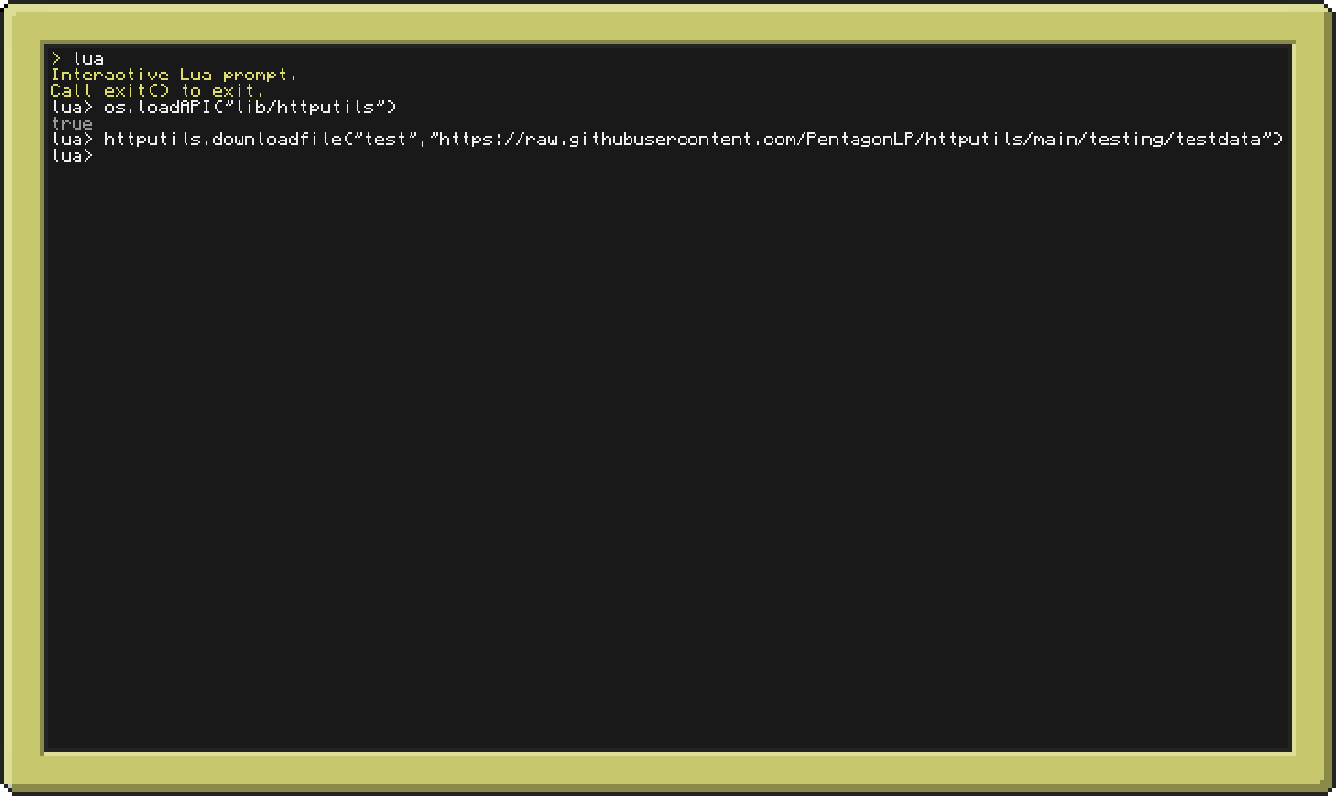
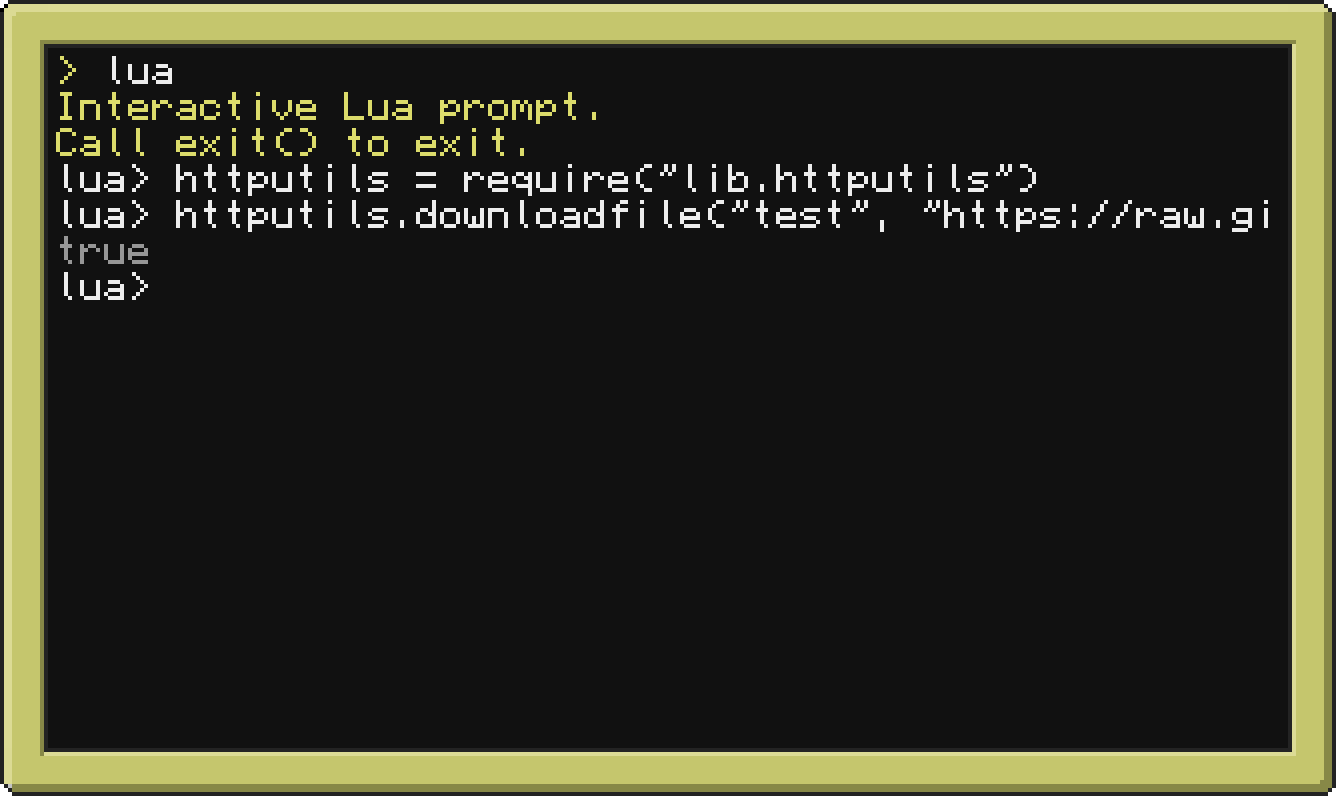
Rework Readme for new version, correct filepath in packageinfo

Changed region(s): [[0.0307, 0.0603, 0.7979, 0.392], [0.5831, 0.1508, 0.9513, 0.1809], [0.8286, 0.2412, 0.9513, 0.3015]]

diff --git a/README.md b/README.md
@@ -1,6 +1,6 @@
-# HTTPUtils
-![projectstage](https://img.shields.io/badge/project%20stage-alpha-yellow)
-![projectstage](https://img.shields.io/badge/version-1.0-yellow)
+# HttpUtils
+![projectstage](https://img.shields.io/badge/project%20stage-release-green)
+![projectstage](https://img.shields.io/badge/version-1.1-green)
 [![license](https://img.shields.io/github/license/computercraft-package-tool/httputils)](https://github.com/computercraft-package-tool/httputils/blob/main/LICENSE)
 [![issues](https://img.shields.io/github/issues/computercraft-package-tool/httputils)](https://github.com/computercraft-package-tool/httputils/issues)<br>
 [![contributors](https://img.shields.io/github/contributors/computercraft-package-tool/httputils)](https://github.com/computercraft-package-tool/httputils/graphs/contributors)
@@ -13,7 +13,7 @@
 Library for the Minecraft mod **ComputerCraft/CC: Tweaked** including some additional HTTP Methodes  
 
 ## How to install 
-HTTPUtils can be installed using the [ComputerCraft Package Tool](https://github.com/computercraft-package-tool/ccpt) by using the following commands:
+HttpUtils can be installed using the [ComputerCraft Package Tool](https://github.com/computercraft-package-tool/ccpt) by using the following commands:
 
 Install CCPT, only run if you havn't installed it yet:
 ```
@@ -23,10 +23,25 @@ Install the library:
 ```
 ccpt install httputils
 ```
-The library will now be stored in "/lib/httputils". It depends on "fileutils", which will be installed automaticly with HTTPUtils.
+The library will now be stored in "/lib/httputils.lua". It depends on the library [FileUtils](https://github.com/computercraft-package-tool/fileutils), which will be installed automatically with HttpUtils.
 
 ## How to use
+### 1. **Include in your project**
 
+The HttpUtils library can be included in your project by using the older ```dofile(...)```-method, or the newer ```require(...)```-method (availible only in [CC: Tweaked](https://tweaked.cc/)):
+
+```lua
+-- Using dofile(...)
+local httputils = dofile("/lib/httputils.lua")
+-- Using require(...)
+local httputils = require("lib.httputils")
+```
+
+In both instances, the methods of the library can be accessed as members of the return value of the method, e.g. ```httputils.gethttpdata(...)```.
+
+**Using *os.loadAPI("lib/httputils")* in order to include the library won't work anymore!** See also [deprecation notice](https://tweaked.cc/module/os.html#v:loadAPI) of the method.
+
+### **2. Get table from URL**
 https://github.com/computercraft-package-tool/httputils/blob/main/testing/testdata will be used in all examples:  
 ```lua
 {
@@ -34,23 +49,30 @@ https://github.com/computercraft-package-tool/httputils/blob/main/testing/testda
 }
 ```
 
-### **1. Get table from URL**  
 The function **gethttpdata([url])** returns the parsed table fetched from the given URL. If an error occures, the errormessage is printed in console and false is returned.
 
 *Example:*  
-
-Example code and output:
+Code:
+```lua
+httputils = require("lib.httputils")
+httputils.gethttpdata("https://raw.githubusercontent.com/computercraft-package-tool/httputils/refs/heads/main/testing/testdata")
+```
+Output:
 <br><img
     alt="missing image :("
     src="https://raw.githubusercontent.com/computercraft-package-tool/httputils/main/img/getdata.png"
 /><br>  
 
-### **2. Download file from URL**  
+### **3. Download file from URL**  
 The function **downloadfile([filepath],[url])** downloads a file from the given URL and stores it in the given filepath. If an error occures, the errormessage is printed in console and false is returned.
 
 *Example:*  
-
-Example code and output:
+Code:
+```lua
+httputils = require("lib.httputils")
+httputils.downloadfile("test", "https://raw.githubusercontent.com/computercraft-package-tool/httputils/refs/heads/main/testing/testdata")
+```
+Output:
 <br><img
     alt="missing image :("
     src="https://raw.githubusercontent.com/computercraft-package-tool/httputils/main/img/downloadfile.png"
@@ -63,23 +85,29 @@ Content of *"test"*:
 }
 ```
 
-### **3. Get Http result from URL**  
-The function **gethttpresult([url])** returns the raw result fetched from the given URL. If an error occures, the errormessage is printed in console and false is returned. This is only a helper methode; It only differs from http.get([url]) because it does some additional error checking.
+### **4. Get HTTP result from URL**  
+The function **gethttpresult([url])** returns the raw result fetched from the given URL. If an error occures, the errormessage is printed in console and false is returned. It only differs from http.get([url]) because it does some additional error checking.
 
 *Example:*  
-
-Example code and output:
+Code:
+```lua
+httputils = require("lib.httputils")
+httputils.gethttpresult("https://raw.githubusercontent.com/computercraft-package-tool/httputils/refs/heads/main/testing/testdata")
+```
+Output:
 <br><img
     alt="missing image :("
     src="https://raw.githubusercontent.com/computercraft-package-tool/httputils/main/img/getresult.png"
 /><br>  
 
 ## Changelog
-Nothing here yet, we are still on 1.0 :)
+- Update method to include the library using ```dofile(...)``` or ```require(...)```, as ```os.loadAPI(...)``` is (rightfully) [deprecated]((https://tweaked.cc/module/os.html#v:loadAPI))
+- Add ```.lua```-extension to the library file (syntax highlighting in editors etc.). The only reason we did not have this before is that file extensions did not work with ```os.loadAPI(...)```, which is no longer supported with HttpUtils version 1.1 anyways.
+- The library no longer lists [ProperPrint](https://github.com/computercraft-package-tool/properprint) as a dependency, which was erroneously listed but never used inside the library
 
 ## Last words
 First of all, thanks for reading! This library is not the biggest library ever, but it turned out to be really useful for one of my projects, and maybe it is for yours too :)  
 If you find bugs, please create an issue so I can fix them.  
-I'm still very new to Github, so feel free to point out things I could do better. Also, english is not my first language, so if you find any spelling/language-related mistakes, please do also create an issue.  
+I'm not that confident with GitHub yet, so feel free to point out things I could do better. Also, english is not my first language, so if you find any spelling/language-related mistakes, please do also create an issue.  
 Have a nice day,  
 PentagonLP
